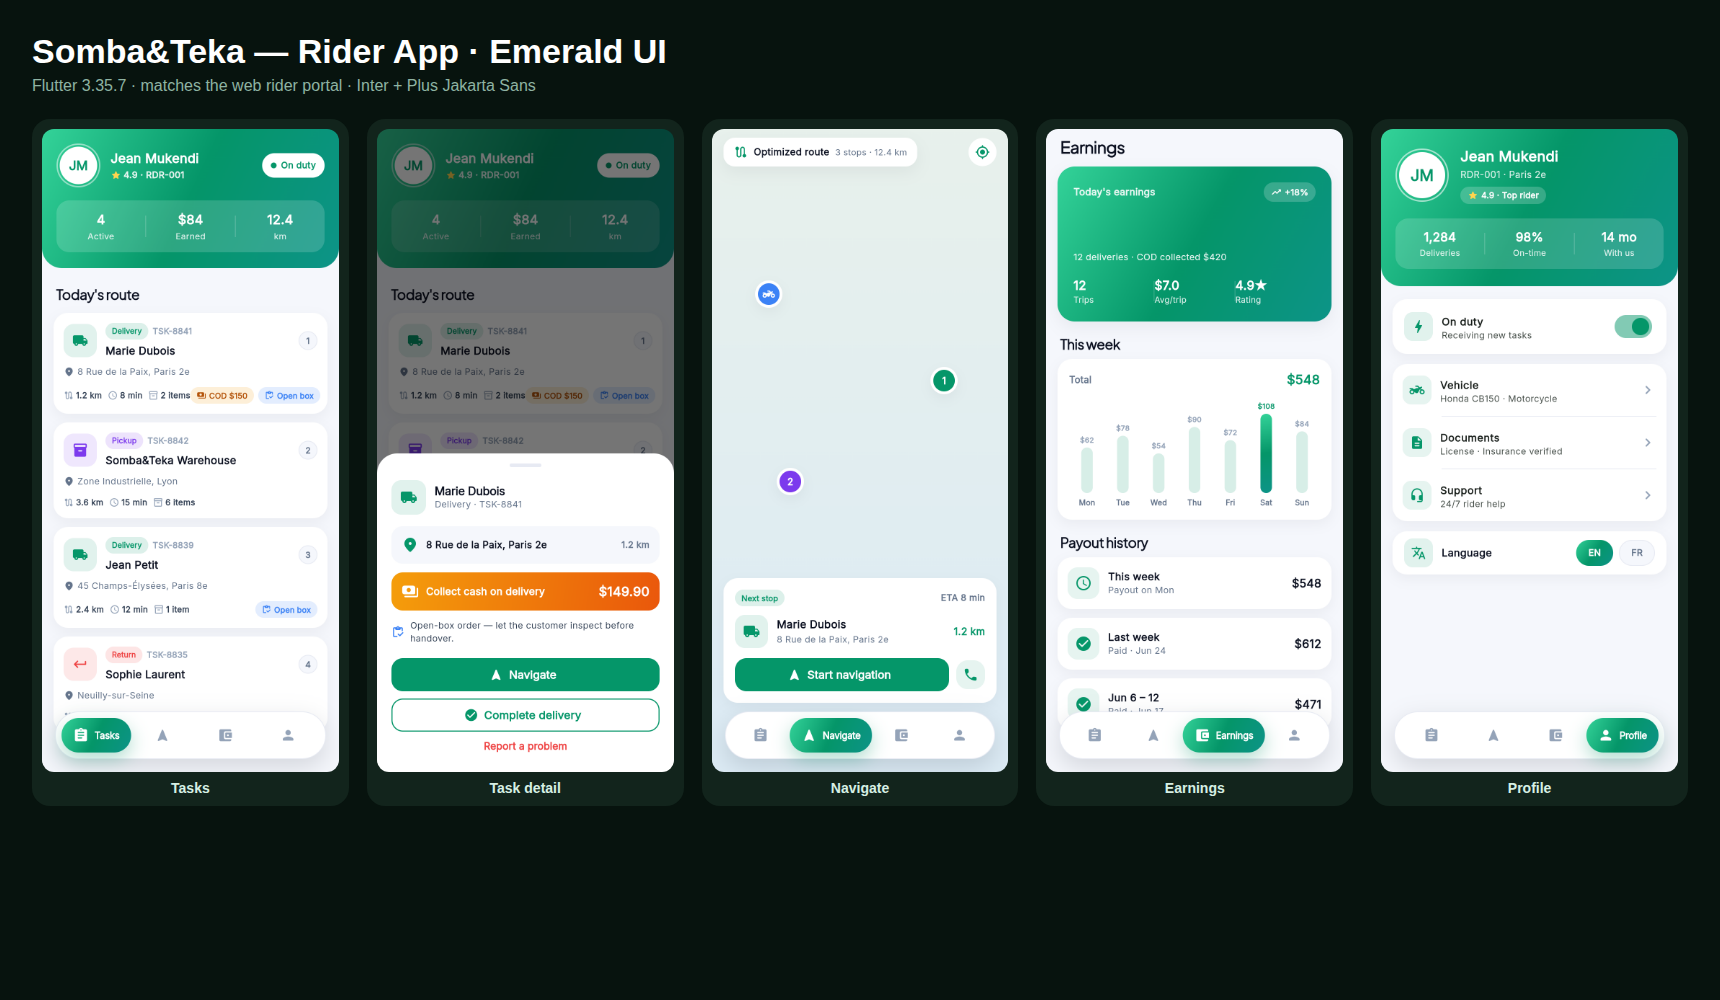
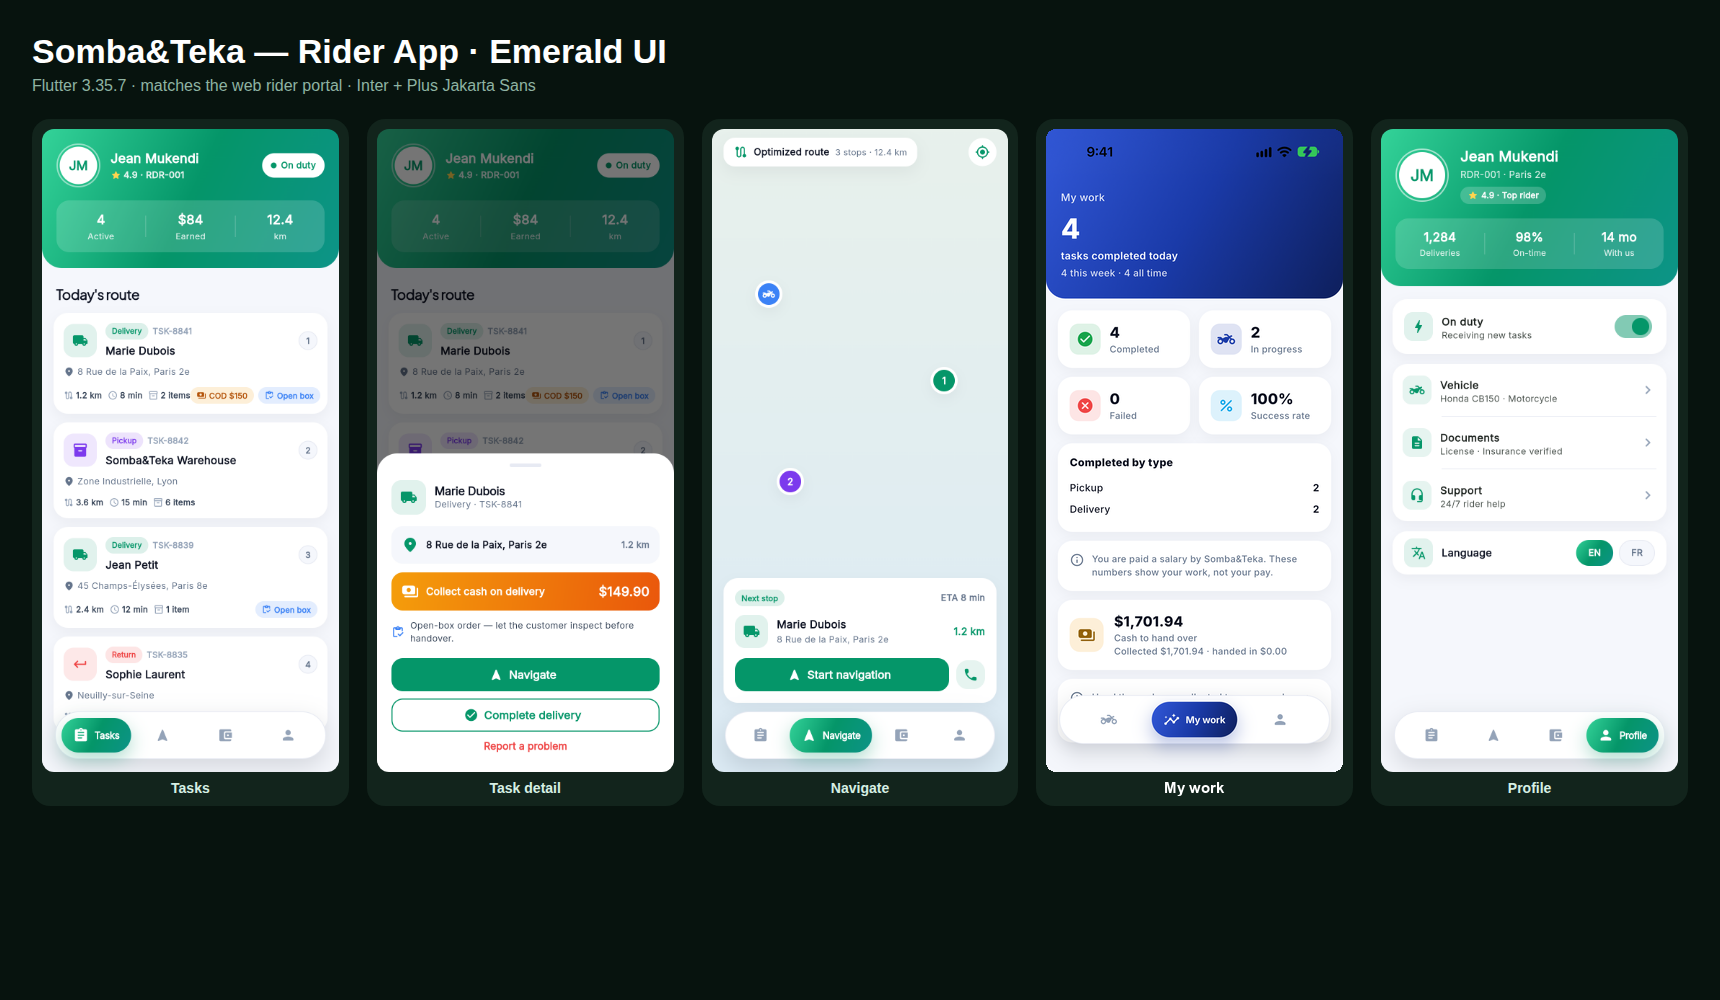
Docs: real My work screenshot in place of the old Earnings mock
The rider screenshot 04-earnings.png (and the Earnings panel of the rider
gallery) still showed per-trip pay and payout history, which riders no longer
have: they are salaried. 04-my-work.png is a capture of the current app on an
iPhone 17 simulator against a freshly seeded local API, sized like the other
shots (824x1784); the gallery panel and SCREENSHOTS.md use it.

The salary note now names the company as the rest of the app does:
"Somba&Teka" (app EN/FR and web rider portal).

Changed region(s): [[0.5855, 0.124, 0.8012, 0.806], [0.7395, 0.62, 0.7703, 0.651]]

diff --git a/web/src/app/rider/work/page.tsx b/web/src/app/rider/work/page.tsx
@@ -62,8 +62,8 @@ export default function RiderWorkPage() {
           <p data-testid="work-salary-note" className="flex items-start gap-2 rounded-xl border border-slate-200 bg-slate-50 px-4 py-3 text-xs text-slate-600">
             <Info className="mt-0.5 h-4 w-4 shrink-0" />
             {fr
-              ? "Vous êtes salarié de Somba. Ces chiffres montrent votre travail, pas votre paie."
-              : "You are paid a salary by Somba. These numbers show your work, not your pay."}
+              ? "Vous êtes salarié de Somba&Teka. Ces chiffres montrent votre travail, pas votre paie."
+              : "You are paid a salary by Somba&Teka. These numbers show your work, not your pay."}
           </p>
           <StatCard title={fr ? "Espèces à remettre" : "Cash to hand over"} value={formatCurrency(cash?.heldUsd ?? 0, locale)} icon={Banknote} />
           <p className="text-xs text-slate-500">

diff --git a/rider-app/lib/l10n/messages.dart b/rider-app/lib/l10n/messages.dart
@@ -139,7 +139,7 @@ const Map<String, (String, String)> kMessages = {
   'work_failed': ('Failed', 'Échouées'),
   'work_success_rate': ('Success rate', 'Taux de réussite'),
   'work_by_kind': ('Completed by type', 'Terminées par type'),
-  'work_salary_note': ('You are paid a salary by Somba. These numbers show your work, not your pay.', 'Vous êtes salarié de Somba. Ces chiffres montrent votre travail, pas votre paie.'),
+  'work_salary_note': ('You are paid a salary by Somba&Teka. These numbers show your work, not your pay.', 'Vous êtes salarié de Somba&Teka. Ces chiffres montrent votre travail, pas votre paie.'),
   'delivered': ('Delivered', 'Livrées'),
   'in_progress': ('In progress', 'En cours'),
   'cash_amount_label': ('Cash you collected (USD)', 'Espèces encaissées (USD)'),

diff --git a/SCREENSHOTS.md b/SCREENSHOTS.md
@@ -156,7 +156,7 @@ A visual walkthrough of every screen across the Somba&Teka apps. Two mobile apps
 <td align="center"><img src="rider-app/docs/screenshots/01-tasks.png" width="180"><br><sub><b>Task queue</b></sub></td>
 <td align="center"><img src="rider-app/docs/screenshots/02-task-detail.png" width="180"><br><sub><b>Task detail</b></sub></td>
 <td align="center"><img src="rider-app/docs/screenshots/03-navigate.png" width="180"><br><sub><b>Navigation</b></sub></td>
-<td align="center"><img src="rider-app/docs/screenshots/04-earnings.png" width="180"><br><sub><b>Earnings</b></sub></td>
+<td align="center"><img src="rider-app/docs/screenshots/04-my-work.png" width="180"><br><sub><b>My work</b></sub></td>
 <td align="center"><img src="rider-app/docs/screenshots/05-profile.png" width="180"><br><sub><b>Profile</b></sub></td>
 </tr>
 </table>
